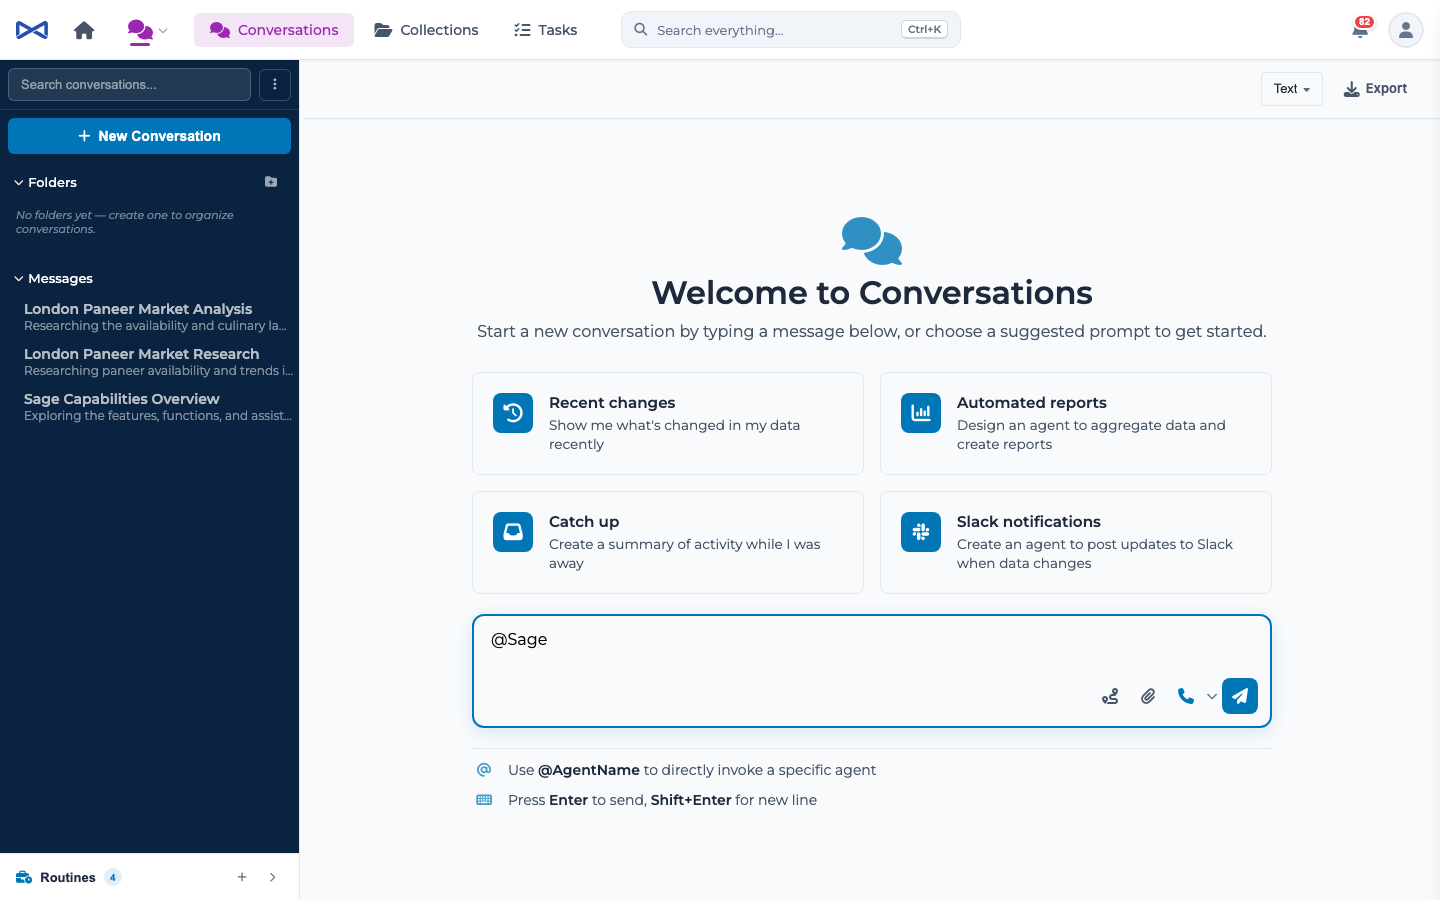
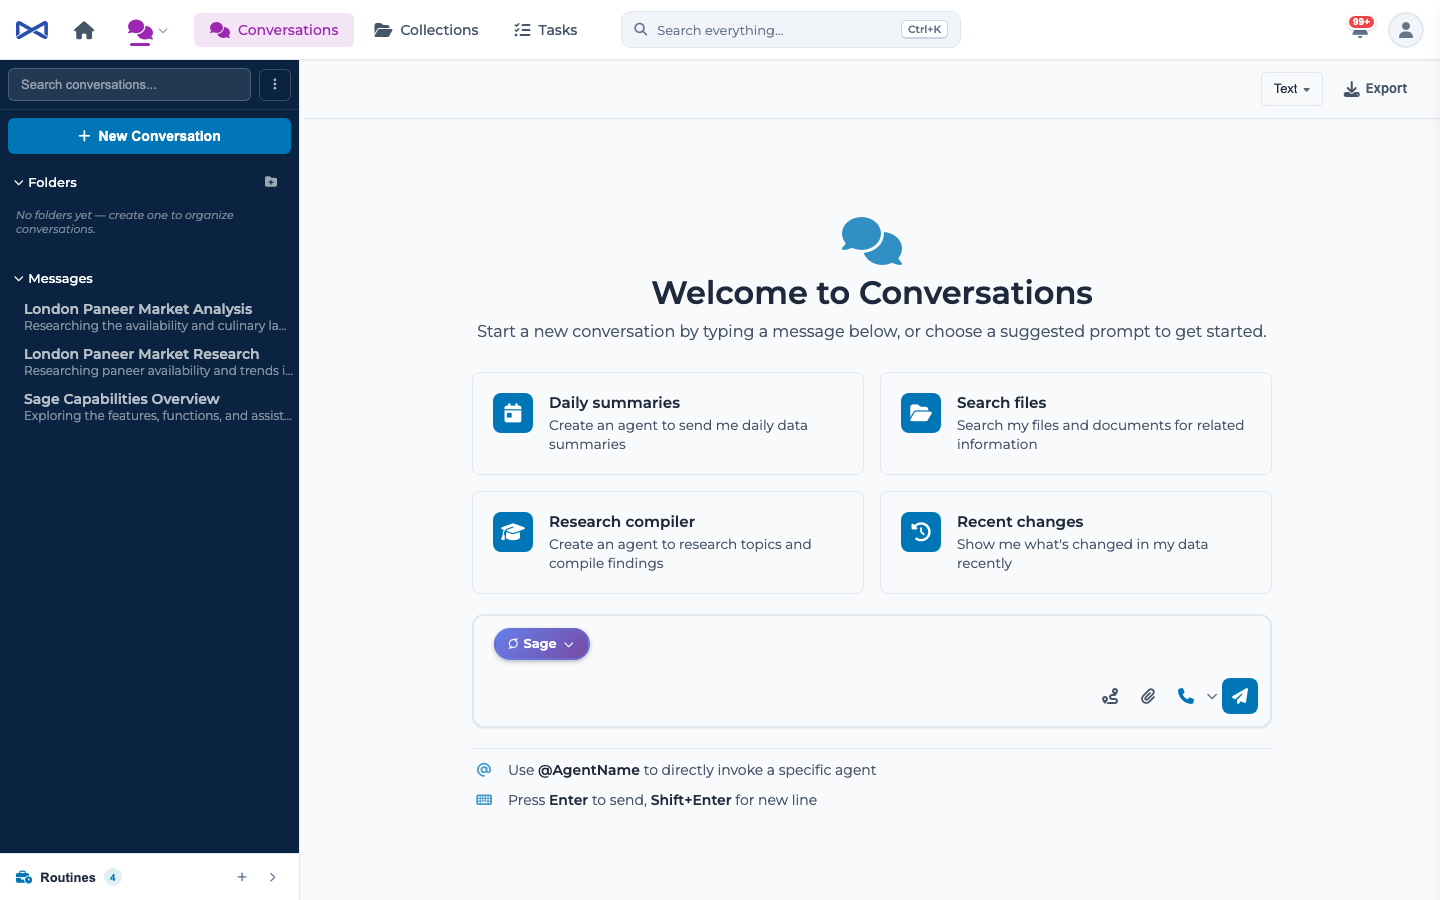
feat(composer): programmatic resolved-mention insertion — omnibar '@agent' now stages a real pill
Amith's smoke test: the omnibar's '@' flow staged '@Sage ' as PLAIN TEXT,
but the composer UX resolves typed mentions into pills — pre-addressing
should land in that same end state.

ng-composer gains a high-level public API: MentionEditorComponent
.InsertMention(suggestion, focus) inserts a RESOLVED mention chip + a
single trailing space at the end of content, places the caret after the
space, and fires the value-change path — the exact state reached by
typing a trigger and picking from the dropdown, with no trigger context
required. Returns false pre-mount so callers can retry. Proxied through
mj-message-input-box and mj-ai-composer.

ng-conversations: MessageInputComponent.InsertAgentMention(name)
resolves the agent through MentionAutocompleteService (real id / icon /
configuration presets on the chip) with a plain-text '@Name ' draft
fallback; ConversationEmptyStateComponent delegates it; the chat area
gains the composerAgentMention input + Consumed output (empty-state
composer for new conversations, active cached input otherwise, bounded
retry while views mount).

Explorer wrapper: the agent= query param feeds the pill seam instead of
the text draft.

Tests: composer 24/24 (2 new DOM tests — chip + trailing space + value,
caret lands after the space), conversations 863, explorer-core 27; live
E2E 5/5 (1.9m) with the '@' scenario asserting the actual
.mention-chip[data-mention-name="Sage"] pill, focused composer, and
[…]

diff --git a/packages/Angular/Generic/composer/src/lib/components/mention/mention-editor.component.dom.test.ts b/packages/Angular/Generic/composer/src/lib/components/mention/mention-editor.component.dom.test.ts
@@ -243,3 +243,55 @@ describe('MentionEditorComponent trigger providers (DOM)', () => {
     expect(f.componentInstance.showMentionDropdown).toBe(true);
   });
 });
+
+describe('InsertMention (programmatic resolved chip)', () => {
+    function mount(): ComponentFixture<MentionEditorComponent> {
+        const user = new UserInfo();
+        user.ID = 'u-insert';
+        user.Name = 'Insert Tester';
+        return renderComponentFixture(MentionEditorComponent, {
+            imports: [CommonModule, MJEmptyStateComponent],
+            declarations: [MentionEditorComponent, MentionDropdownComponent],
+            inputs: { currentUser: user },
+        });
+    }
+
+    const SAGE: MentionSuggestion = {
+        type: 'agent', id: 'ag-1', name: 'Sage', displayName: 'Sage', icon: 'fa-solid fa-leaf',
+    };
+
+    it('inserts a resolved chip + trailing space at the end and updates the bound value', () => {
+        const fixture = mount();
+        fixture.detectChanges();
+        const ok = fixture.componentInstance.InsertMention(SAGE, false);
+        fixture.detectChanges();
+        expect(ok).toBe(true);
+        const editor = fixture.componentInstance.editorRef.nativeElement;
+        const chip = editor.querySelector('.mention-chip') as HTMLElement;
+        expect(chip).toBeTruthy();
+        expect(chip.getAttribute('data-mention-name')).toBe('Sage');
+        expect(chip.getAttribute('data-mention-type')).toBe('agent');
+        // Trailing space follows the chip so the user can type immediately.
+        expect(chip.nextSibling?.textContent).toBe(' ');
+        // The CVA value reflects the serialized mention (chip data attribute is authoritative).
+        expect(editor.textContent).toContain('Sage');
+    });
+
+    it('places the caret AFTER the trailing space (typing lands past the pill)', () => {
+        const fixture = mount();
+        fixture.detectChanges();
+        fixture.componentInstance.InsertMention(SAGE, true);
+        fixture.detectChanges();
+        const selection = window.getSelection();
+        expect(selection).toBeTruthy();
+        const editor = fixture.componentInstance.editorRef.nativeElement;
+        const chip = editor.querySelector('.mention-chip') as HTMLElement;
+        // Caret container must be the space text node right after the chip (or positioned after it).
+        const range = selection!.getRangeAt(0);
+        expect(range.collapsed).toBe(true);
+        // setStartAfter(space) puts the caret in the editor node, offset past the
+        // space that follows the chip — i.e. at the very end of the content.
+        expect(range.startContainer).toBe(editor);
+        expect(range.startOffset).toBe(editor.childNodes.length);
+    });
+});

diff --git a/packages/Angular/Generic/conversations/src/lib/components/conversation/conversation-chat-area.component.ts b/packages/Angular/Generic/conversations/src/lib/components/conversation/conversation-chat-area.component.ts
@@ -522,6 +522,55 @@ export class ConversationChatAreaComponent extends BaseAngularComponent implemen
 
   @Output() composerDraftConsumed = new EventEmitter<void>();
 
+  /**
+   * Pre-address the composer to an AGENT as a resolved mention pill (+ space +
+   * focus) — the chip-resolving sibling of {@link composerDraft}. Value = the
+   * agent's name. Emits composerAgentMentionConsumed once applied.
+   */
+  @Input()
+  set composerAgentMention(value: string | null) {
+    if (value && value !== this._composerAgentMention) {
+      this._composerAgentMention = value;
+      this.applyComposerAgentMention(0);
+    } else if (!value) {
+      this._composerAgentMention = null;
+    }
+  }
+  get composerAgentMention(): string | null {
+    return this._composerAgentMention;
+  }
+  private _composerAgentMention: string | null = null;
+
+  @Output() composerAgentMentionConsumed = new EventEmitter<void>();
+
+  private applyComposerAgentMention(attempt: number): void {
+    const agentName = this._composerAgentMention;
+    if (!agentName) {
+      return;
+    }
+    // New/unsaved conversations render the empty-state composer; established ones
+    // use the active cached input. Both resolve the agent to a pill.
+    const insert: Promise<boolean> | null = this.emptyStateComponent
+      ? this.emptyStateComponent.InsertAgentMention(agentName, true)
+      : this.messageInputComponents?.first
+        ? this.messageInputComponents.first.InsertAgentMention(agentName, true)
+        : null;
+    if (insert) {
+      void insert.then((applied: boolean) => {
+        if (applied) {
+          this._composerAgentMention = null;
+          this.composerAgentMentionConsumed.emit();
+        } else if (attempt < 20) {
+          setTimeout(() => this.applyComposerAgentMention(attempt + 1), 150);
+        }
+      });
+      return;
+    }
+    if (attempt < 20) {
+      setTimeout(() => this.applyComposerAgentMention(attempt + 1), 150);
+    }
+  }
+
   /** The empty-state input applied the staged draft — clear + inform the host. */
   public OnComposerDraftApplied(): void {
     this.composerDraft = null;

diff --git a/packages/Angular/Generic/composer/src/lib/components/mention/mention-editor.component.ts b/packages/Angular/Generic/composer/src/lib/components/mention/mention-editor.component.ts
@@ -474,6 +474,47 @@ export class MentionEditorComponent implements OnInit, AfterViewInit, ControlVal
   /**
    * Insert a mention chip at the current cursor position
    */
+  /**
+   * Programmatically inserts a RESOLVED mention chip (+ a single trailing space) at
+   * the END of the editor content and places the caret after it — the exact state a
+   * user reaches by typing a trigger and picking from the dropdown. Unlike the
+   * dropdown path this needs no active trigger context, so hosts can pre-address a
+   * message (e.g. the omnibar's '@agent' flow staging a Sage pill) and leave the
+   * user ready to type.
+   *
+   * @returns false when the editor view isn't mounted yet — callers may retry.
+   */
+  public InsertMention(suggestion: MentionSuggestion, focus: boolean = true): boolean {
+    const editor = this.editorRef?.nativeElement;
+    if (!editor) {
+      return false;
+    }
+    editor.focus();
+    const selection = window.getSelection();
+    if (!selection) {
+      return false;
+    }
+    // Caret to the end of the current content, then chip + space + caret-after.
+    const range = document.createRange();
+    range.selectNodeContents(editor);
+    range.collapse(false);
+    const chip = this.createMentionChip(suggestion);
+    range.insertNode(chip);
+    const space = document.createTextNode(' ');
+    range.setStartAfter(chip);
+    range.collapse(true);
+    range.insertNode(space);
+    range.setStartAfter(space);
+    range.collapse(true);
+    selection.removeAllRanges();
+    selection.addRange(range);
+    if (!focus) {
+      editor.blur();
+    }
+    this.onInput();
+    return true;
+  }
+
   private insertMentionChip(suggestion: MentionSuggestion): void {
     const selection = window.getSelection();
     if (!selection || selection.rangeCount === 0) return;

diff --git a/packages/Angular/Explorer/explorer-core/src/lib/resource-wrappers/chat-conversations-resource.component.ts b/packages/Angular/Explorer/explorer-core/src/lib/resource-wrappers/chat-conversations-resource.component.ts
@@ -96,8 +96,8 @@ import { Subject, takeUntil } from 'rxjs';
               (artifactLinkClicked)="onArtifactLinkClicked($event)"
               (openEntityRecord)="onOpenEntityRecord($event)"
               (navigationRequest)="onNavigationRequest($event)"
-              [composerDraft]="pendingComposerDraft"
-              (composerDraftConsumed)="onComposerDraftConsumed()">
+              [composerAgentMention]="pendingComposerAgentMention"
+              (composerAgentMentionConsumed)="onComposerAgentMentionConsumed()">
             </mj-conversation-chat-area>
           }
         </div>
@@ -465,20 +465,20 @@ export class ChatConversationsResource extends BaseResourceComponent implements 
       return;
     }
     this.lastAppliedAgentParam = agentName;
-    const mention = agentName.includes(' ') ? `@"${agentName}" ` : `@${agentName} `;
     this.isNewUnsavedConversation = true;
     this.selectedConversationId = null;
     this.selectedConversation = null;
-    // DRAFT prefill (composerDraft) — pendingMessage would AUTO-SEND, which is wrong here.
-    this.pendingComposerDraft = mention;
+    // Resolved mention PILL (composerAgentMention) — matching the UX of typing
+    // '@agent' and picking from the dropdown; pendingMessage would AUTO-SEND.
+    this.pendingComposerAgentMention = agentName;
     this.cdr.detectChanges();
   }
 
-  public pendingComposerDraft: string | null = null;
+  public pendingComposerAgentMention: string | null = null;
   private lastAppliedAgentParam: string | null = null;
 
-  public onComposerDraftConsumed(): void {
-    this.pendingComposerDraft = null;
+  public onComposerAgentMentionConsumed(): void {
+    this.pendingComposerAgentMention = null;
   }
 
   private applyConfigurationParams(): void {

diff --git a/packages/Angular/Generic/conversations/src/lib/components/message/message-input.component.ts b/packages/Angular/Generic/conversations/src/lib/components/message/message-input.component.ts
@@ -293,6 +293,38 @@ export class MessageInputComponent extends BaseAngularComponent implements OnIni
 
   @Output() initialDraftApplied = new EventEmitter<void>();
 
+  /**
+   * Pre-addresses the composer to an agent as a RESOLVED mention pill (+ trailing
+   * space, caret after, focused) — identical to the user typing '@agent' and picking
+   * it from the dropdown. Resolves the agent through MentionAutocompleteService so
+   * the chip carries the agent's real id/icon/presets; falls back to a plain-text
+   * '@Name ' draft when the agent can't be resolved (e.g. name mismatch).
+   *
+   * @returns false while the composer view isn't mounted yet — callers may retry.
+   */
+  public async InsertAgentMention(agentName: string, focus: boolean = true): Promise<boolean> {
+    if (!this.inputBox) {
+      return false;
+    }
+    try {
+      if (!this.mentionAutocomplete.IsInitialized && this.currentUser) {
+        await this.mentionAutocomplete.initialize(this.currentUser);
+      }
+      const wanted = agentName.trim().toLowerCase();
+      const suggestion = this.mentionAutocomplete
+        .getSuggestions(agentName, false, '@')
+        .find(s => s.type === 'agent' && s.name.trim().toLowerCase() === wanted);
+      if (suggestion) {
+        return this.inputBox.InsertMention(suggestion, focus);
+      }
+    } catch {
+      // resolution is best-effort — fall through to the plain-text draft
+    }
+    const mention = agentName.includes(' ') ? `@"${agentName}" ` : `@${agentName} `;
+    this.SetDraft(mention, focus);
+    return true;
+  }
+
   public SetDraft(text: string, focus: boolean = true): void {
     this.messageText = text;
     if (focus) {

diff --git a/e2e/specs/omnibar.spec.ts b/e2e/specs/omnibar.spec.ts
@@ -109,9 +109,14 @@ test.describe.serial('Unified command palette', () => {
     await sageRow.click();
     await expect(page.locator('.omnibar-palette')).toBeHidden();
     await expect(page).toHaveURL(/chat/i, { timeout: 30_000 });
-    // The composer draft is PREFILLED (not sent) with the @mention, and focused.
+    // The composer is pre-addressed with a RESOLVED mention PILL (not raw text) —
+    // identical to typing '@sage' and picking from the dropdown — and focused.
     const composer = page.locator('mj-mention-editor [contenteditable="true"]').first();
-    await expect(composer).toContainText('@Sage', { timeout: 30_000 });
+    const chip = composer.locator('.mention-chip[data-mention-type="agent"][data-mention-name="Sage"]');
+    await expect(chip).toBeVisible({ timeout: 30_000 });
     await expect(composer).toBeFocused({ timeout: 15_000 });
+    // Typing lands AFTER the pill (caret placed past the trailing space).
+    await page.keyboard.type('hello');
+    await expect(composer).toContainText('hello');
   });
 });

diff --git a/packages/Angular/Generic/conversations/src/lib/components/conversation/conversation-empty-state.component.ts b/packages/Angular/Generic/conversations/src/lib/components/conversation/conversation-empty-state.component.ts
@@ -175,6 +175,18 @@ export class ConversationEmptyStateComponent {
    * Focus the message input programmatically.
    * Called by parent when the user clicks "New Conversation" while already on the empty state.
    */
+  /**
+   * Pre-addresses the composer to an agent as a resolved mention pill (delegates to
+   * MessageInputComponent.InsertAgentMention). Returns false while the input isn't
+   * mounted — callers may retry.
+   */
+  public async InsertAgentMention(agentName: string, focus: boolean = true): Promise<boolean> {
+    if (!this.messageInput) {
+      return false;
+    }
+    return this.messageInput.InsertAgentMention(agentName, focus);
+  }
+
   public FocusInput(): void {
     setTimeout(() => {
       if (this.messageInput) {

diff --git a/packages/Angular/Generic/conversations/src/lib/components/composer/ai-composer.component.ts b/packages/Angular/Generic/conversations/src/lib/components/composer/ai-composer.component.ts
@@ -1,6 +1,6 @@
 import { Component, EventEmitter, Input, Output, ViewChild } from '@angular/core';
 import { IMetadataProvider, UserInfo } from '@memberjunction/core';
-import {
+import { MentionSuggestion,
   ComposerTriggerProvider,
   MentionEditorComponent,
   MessageInputBoxComponent,
@@ -174,6 +174,11 @@ export class AiComposerComponent {
   }
 
   /** Focus the composer input. */
+  /** Inserts a resolved mention chip + space (see MentionEditorComponent.InsertMention). */
+  public InsertMention(suggestion: MentionSuggestion, focus: boolean = true): boolean {
+    return this.inputBox?.InsertMention(suggestion, focus) ?? false;
+  }
+
   public focus(): void {
     this.inputBox?.focus();
   }

diff --git a/packages/Angular/Generic/composer/src/lib/components/message/message-input-box.component.ts b/packages/Angular/Generic/composer/src/lib/components/message/message-input-box.component.ts
@@ -190,6 +190,11 @@ export class MessageInputBoxComponent {
   /**
    * Public method to focus the input programmatically
    */
+  /** Inserts a resolved mention chip + space and focuses (see MentionEditorComponent.InsertMention). */
+  InsertMention(suggestion: MentionSuggestion, focus: boolean = true): boolean {
+    return this.mentionEditor?.InsertMention(suggestion, focus) ?? false;
+  }
+
   focus(): void {
     const editor = this.mentionEditor?.editorRef?.nativeElement;
     if (editor) {
